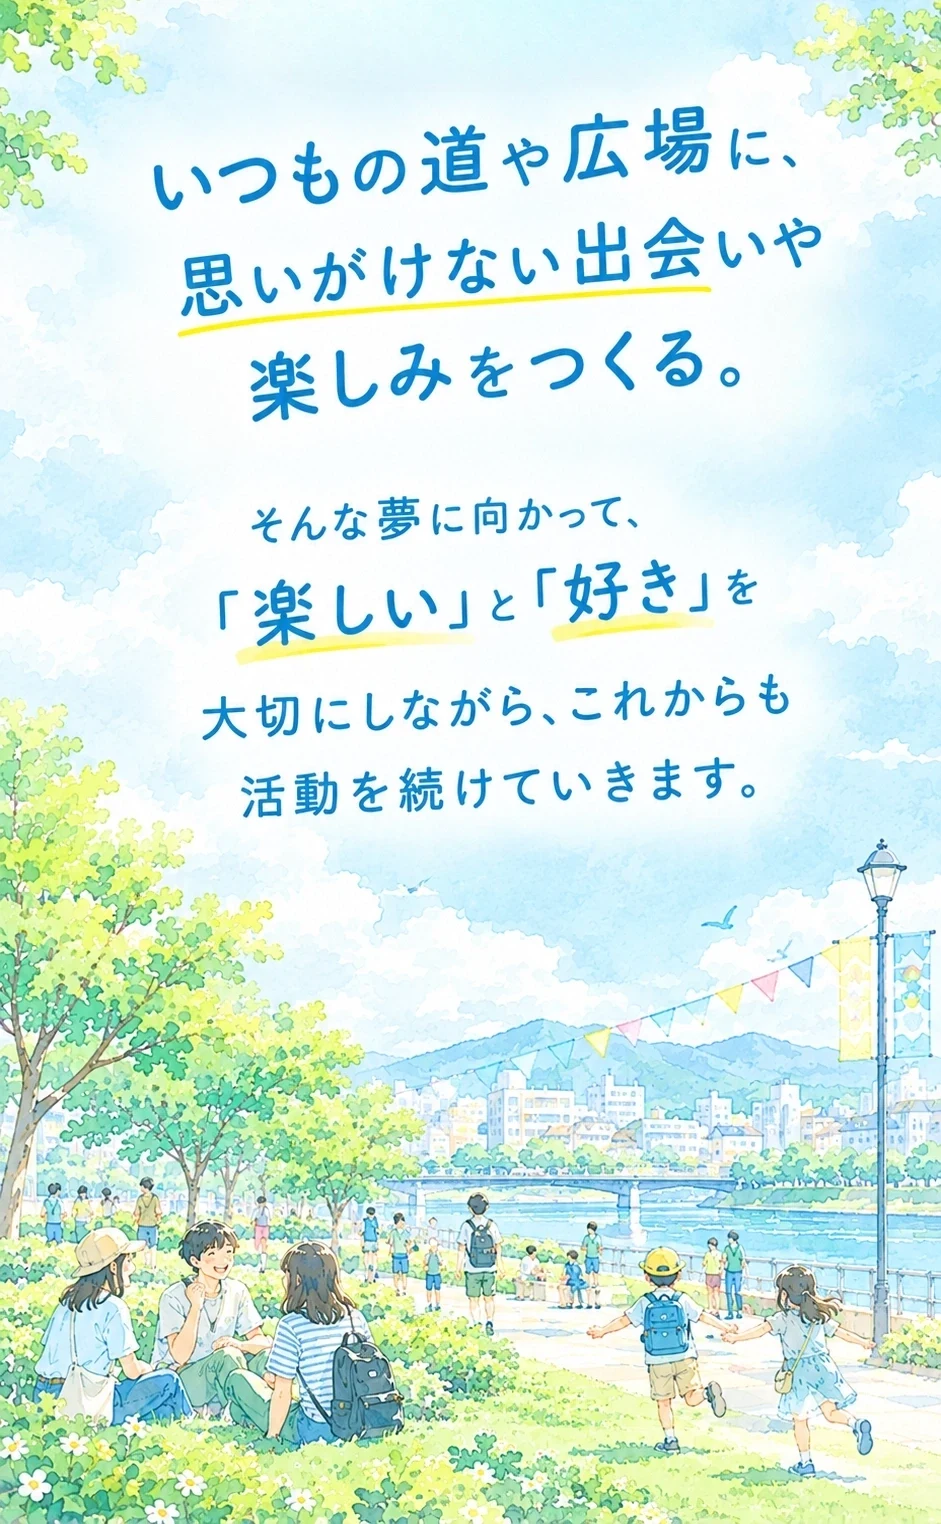
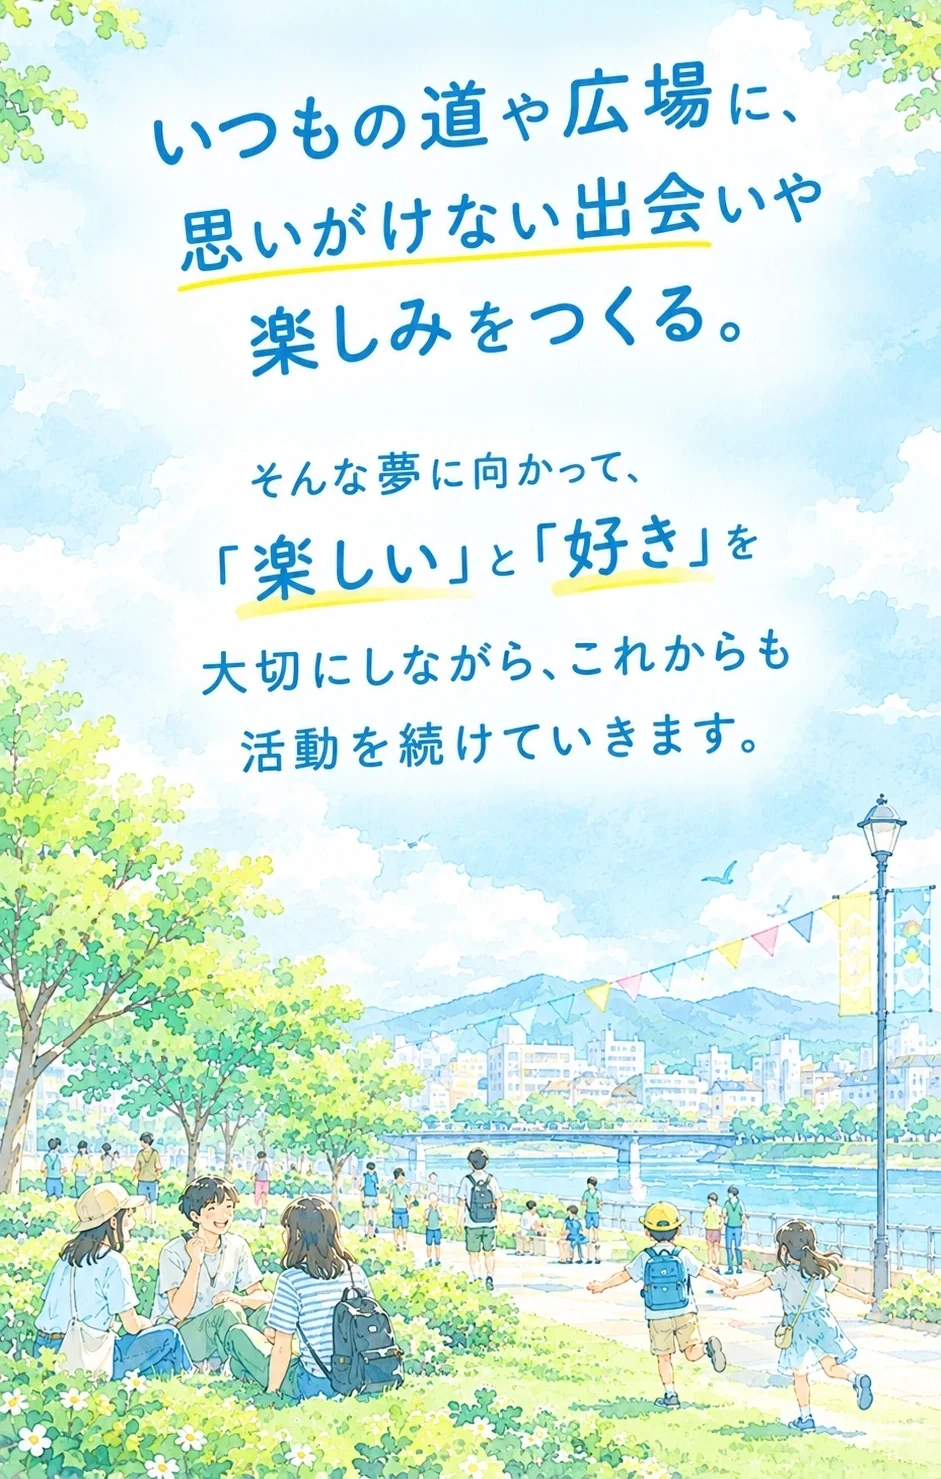
Use the larger second panel and trim the sky above the text
Panel two is the newer, larger render with 7% of the sky cropped, and panel
three loses 3%, so both sit higher and read larger on a short screen.

diff --git a/top-c/index.html b/top-c/index.html
@@ -391,11 +391,11 @@ footer{border-top:1px solid var(--line);margin-top:30px;padding:36px 0 56px;colo
           alt="毎日歩くその道で、最後に足を止めたのはいつですか？"></div>
     </div>
     <div class="slide">
-      <div class="p-wrap"><img class="p-bg" src="../assets/sp-panel-2.webp" width="941" height="1508" loading="lazy"
+      <div class="p-wrap"><img class="p-bg" src="../assets/sp-panel-2.webp" width="992" height="1475" loading="lazy"
         alt="MACHI PLAYは、公共空間に眠る、そんな人と人との新たな関わりの可能性を、遊びの力で切り拓いていく取り組みです。その中で大事にしているのは、一人ひとりの「好き」を大切にすること、そして、人と一緒に何かを楽しむことです。誰かと一緒に楽しみ、その人の好きなものや人柄を知る。そんな出会いを通して、その人が暮らすまちも少しずつ身近になっていきます。"></div>
     </div>
     <div class="slide">
-      <div class="p-wrap"><img class="p-bg" src="../assets/sp-panel-3.webp" width="941" height="1524" loading="lazy"
+      <div class="p-wrap"><img class="p-bg" src="../assets/sp-panel-3.webp" width="941" height="1479" loading="lazy"
         alt="いつもの道や広場に、思いがけない出会いや楽しみをつくる。そんな夢に向かって、「楽しい」と「好き」を大切にしながら、これからも活動を続けていきます。"></div>
     </div>
   </div>
